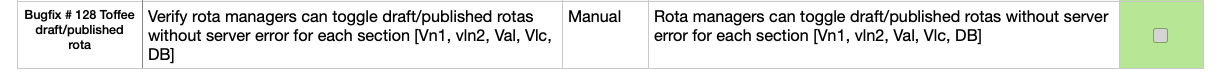
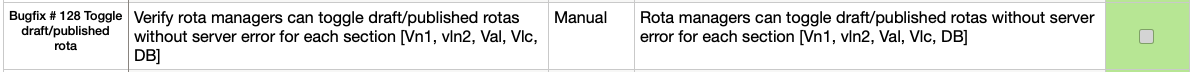
[#127] Disabled access to projects for Staff
Temparaliy disabled access to projects for Office and Admin in
order to make MVP stable and robust. Access to projects currently cause
server errors.
Priority needs to be given to fixing other issues first.
	modified:   templates/base.html

Add testing log for access diablement to readme.
	modified:   README.md
	new file:   readme_assets/images/testing-issue127.png

Correct spelling mistake in testing log for #127
    modified:   readme_assets/images/testing-issue128.png

diff --git a/templates/base.html b/templates/base.html
@@ -99,6 +99,8 @@
 
             <ul class="sidebar-nav" id="sidebar-nav">
 
+                {% if request.user.is_staff %}
+                {% else %}
                 <!-- Projects Nav -->
                 <li class="nav-item">
                     <a class="nav-link collapsed" data-bs-target="#components-nav" data-bs-toggle="collapse" href="#">
@@ -116,6 +118,7 @@
                     </ul>
                 </li>
                 <!-- End Projects Nav -->
+                {% endif %}
                 {% if request.user.is_staff %}
                 <li class="">
                     <a class="nav-link " href="../admin/">

diff --git a/README.md b/README.md
@@ -246,6 +246,8 @@ The following manual tests were made:
     - [see issue #154 here](https://github.com/mikerae/string-rota/issues/154)
 - [Bug Fix #128 Testing](/readme_assets/images/testing-issue128.png)
     - [see issue #128 here](https://github.com/mikerae/string-rota/issues/128)
+- [Bug Fix #127 Testing](/readme_assets/images/testing-issue127.png)
+    - [see issue #127 here](https://github.com/mikerae/string-rota/issues/127)
 #### Human Testing
 No human testing was done for this MVP, but once office manager functionality, and the hiding of draft rotas is implemented, user feedback will be sort.
 
